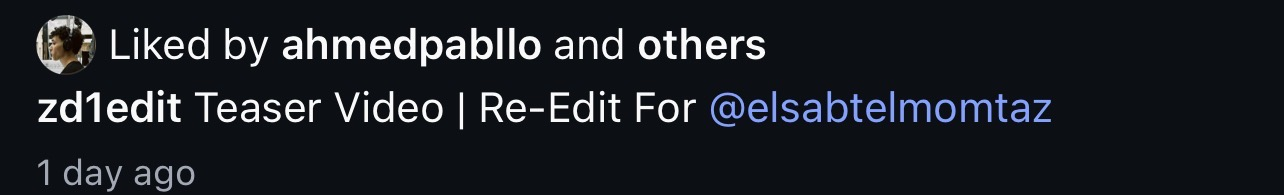
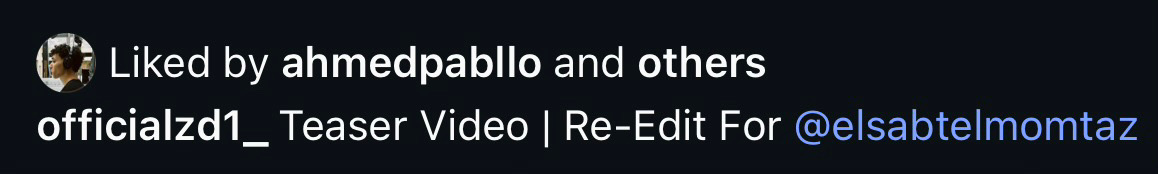
ZD1

Changed region(s): [[0.0, 0.0575, 0.9948, 0.977]]

diff --git a/index.html b/index.html
@@ -85,9 +85,14 @@
                         <div class="note-body">
                             <div class="note-row">
                                 <p class="text-ar">هذا العمل ترويجي وإضافي (غير مطلوب) لبرنامج "اتقدم" من بيس كيك</p>
-<p class="text-en">This is a promotional and extra (unrequested) re-edit for the "Et2adem" show by Peace Cake</p>
+<p class="text-en">This is a promotional and extra (unrequested) re-edit for the "etadem" show by Peace Cake</p>
                             </div>      
                            
+                             <div class="proof-wrapper">
+                                <img src="Et2adem_Screenshot.jpg" alt="Proof of original editor approval" class="proof-img" loading="lazy">
+                            </div>
+                            
+
                              
                             
                         </div>
